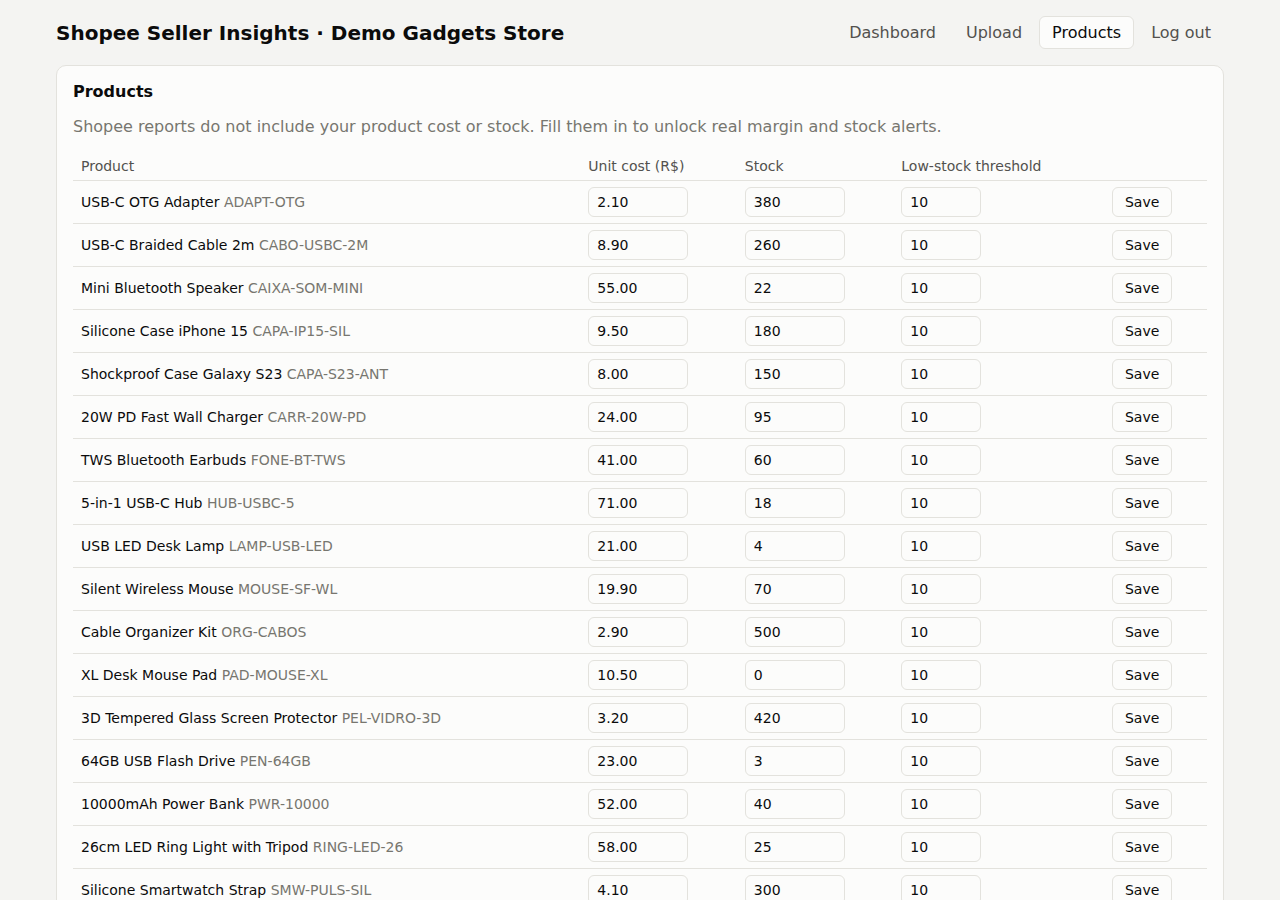
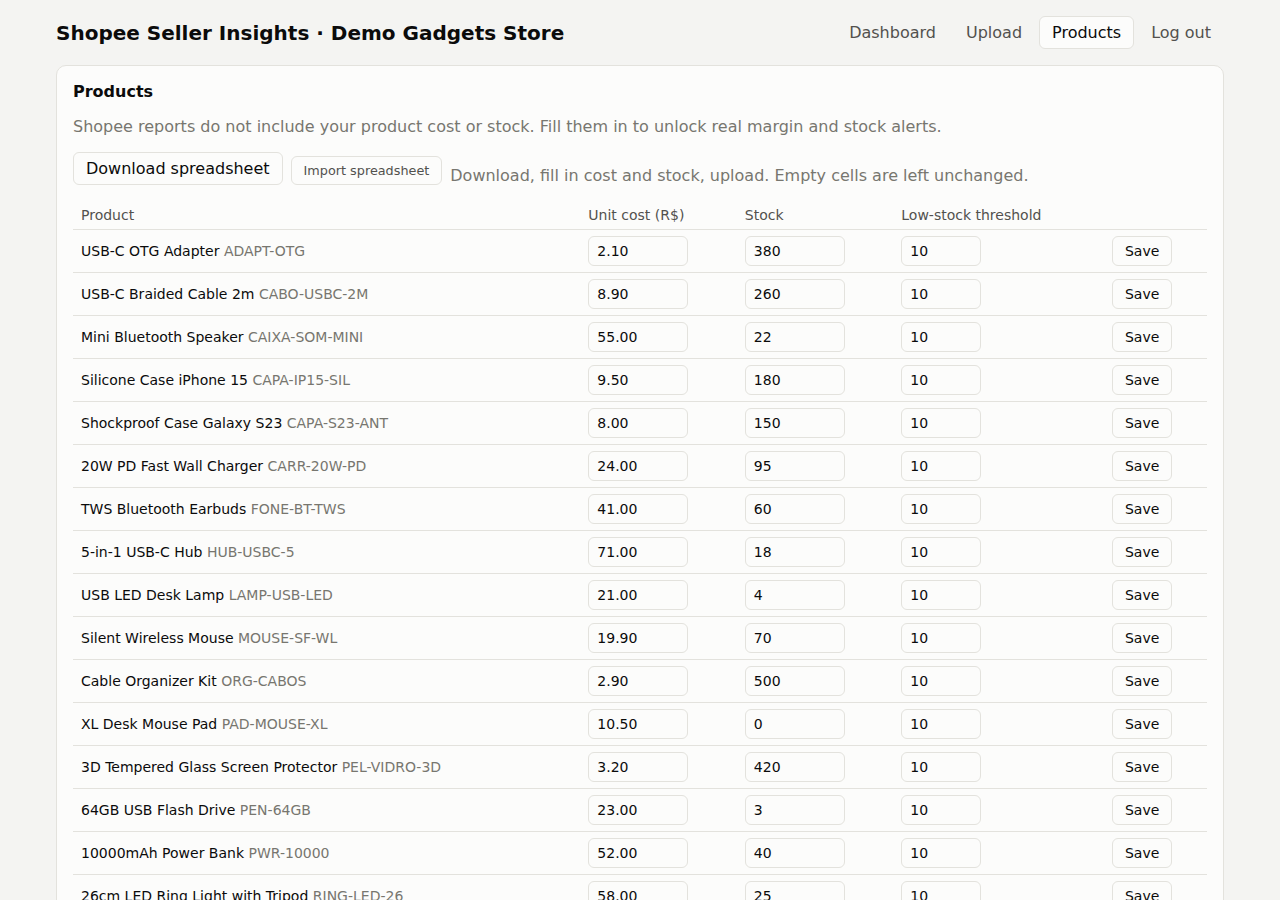
feat(infra): serve frontend with unprivileged nginx and hardened headers
- Multi-stage build; nginx-unprivileged on :8080 serves the static bundle and
  proxies /api (API no longer publishes a host port)
- CSP, nosniff, Referrer-Policy, Permissions-Policy, COOP; immutable assets
- nginx overwrites X-Forwarded-For; API trusts it only from nginx's fixed IP,
  so rate limits are per real client and cannot be spoofed
- Swagger at /api/docs (own CSP), disabled in production

Claude-Session: https://claude.ai/code/session_0121Mcjqbup5zRV2eAPSukkh

Changed region(s): [[0.0625, 0.1556, 0.8125, 1.0], [0.0625, 0.84, 0.3438, 1.0], [0.875, 0.2178, 0.9375, 1.0]]

diff --git a/frontend/vite.config.ts b/frontend/vite.config.ts
@@ -1,13 +1,12 @@
 import { defineConfig } from 'vite'
 import react from '@vitejs/plugin-react'
 
-// The browser only talks to this origin; /api is proxied to the FastAPI service,
-// so the API never needs to be exposed with permissive CORS.
+// Local development only (npm run dev): /api is proxied to FastAPI on :8000.
+// In Docker the static build is served by nginx (see nginx.conf).
 const apiTarget = process.env.API_PROXY_TARGET ?? 'http://localhost:8000'
 const proxy = { '/api': { target: apiTarget, changeOrigin: false } }
 
 export default defineConfig({
   plugins: [react()],
   server: { port: 5173, proxy },
-  preview: { port: 5173, host: true, proxy },
 })

diff --git a/backend/app/main.py b/backend/app/main.py
@@ -9,13 +9,20 @@ from app.config import get_settings
 
 def create_app() -> FastAPI:
     settings = get_settings()
-    app = FastAPI(title="Shopee Seller Insights API", version="0.1.0")
+    public_docs = settings.app_env != "production"
+    app = FastAPI(
+        title="Shopee Seller Insights API",
+        version="0.2.0",
+        docs_url="/api/docs" if public_docs else None,
+        redoc_url=None,
+        openapi_url="/api/openapi.json" if public_docs else None,
+    )
     app.add_middleware(
         CORSMiddleware,
         allow_origins=settings.cors_origins,
         allow_credentials=False,
-        allow_methods=["GET", "POST", "PATCH"],
-        allow_headers=["Authorization", "Content-Type"],
+        allow_methods=["GET", "POST", "PATCH", "DELETE"],
+        allow_headers=["Authorization", "Content-Type", "X-Requested-With"],
     )
     app.include_router(auth.router)
     app.include_router(uploads.router)

diff --git a/backend/tests/test_auth.py b/backend/tests/test_auth.py
@@ -1,6 +1,7 @@
 from datetime import UTC, datetime, timedelta
 
 import jwt
+import pytest
 from fastapi.testclient import TestClient
 from sqlalchemy import select
 from sqlalchemy.orm import Session
@@ -161,3 +162,13 @@ def test_production_rejects_dev_secrets() -> None:
         app_env="production", jwt_secret="y" * 40, pii_hash_secret="x" * 40, cookie_secure=True
     )
     assert ok.app_env == "production"
+
+
+def test_docs_hidden_in_production(monkeypatch: pytest.MonkeyPatch) -> None:
+    from app.main import create_app
+
+    assert TestClient(create_app()).get("/api/docs").status_code == 200
+    monkeypatch.setattr(get_settings(), "app_env", "production")
+    prod = TestClient(create_app())
+    assert prod.get("/api/docs").status_code == 404
+    assert prod.get("/api/openapi.json").status_code == 404

diff --git a/backend/app/config.py b/backend/app/config.py
@@ -28,7 +28,7 @@ class Settings(BaseSettings):
         default="America/Sao_Paulo", pattern=r"^[A-Za-z_]+(/[A-Za-z_+-]+)*$"
     )
 
-    cors_origins: list[str] = Field(default=["http://localhost:5173"])
+    cors_origins: list[str] = Field(default=["http://localhost:8080", "http://localhost:5173"])
 
     max_upload_mb: int = Field(default=5, ge=1, le=50)
     max_upload_rows: int = Field(default=50_000, ge=1)
